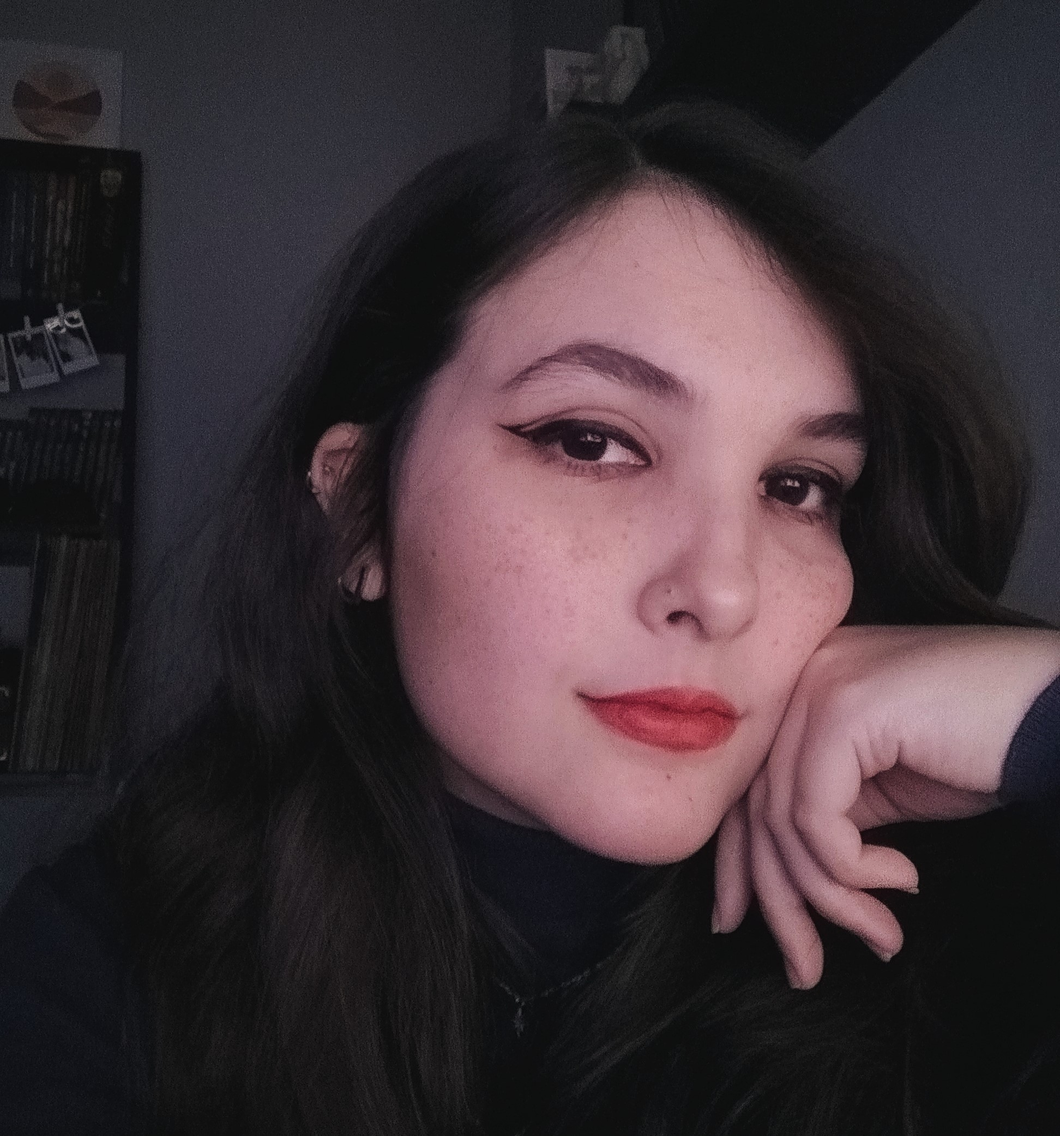
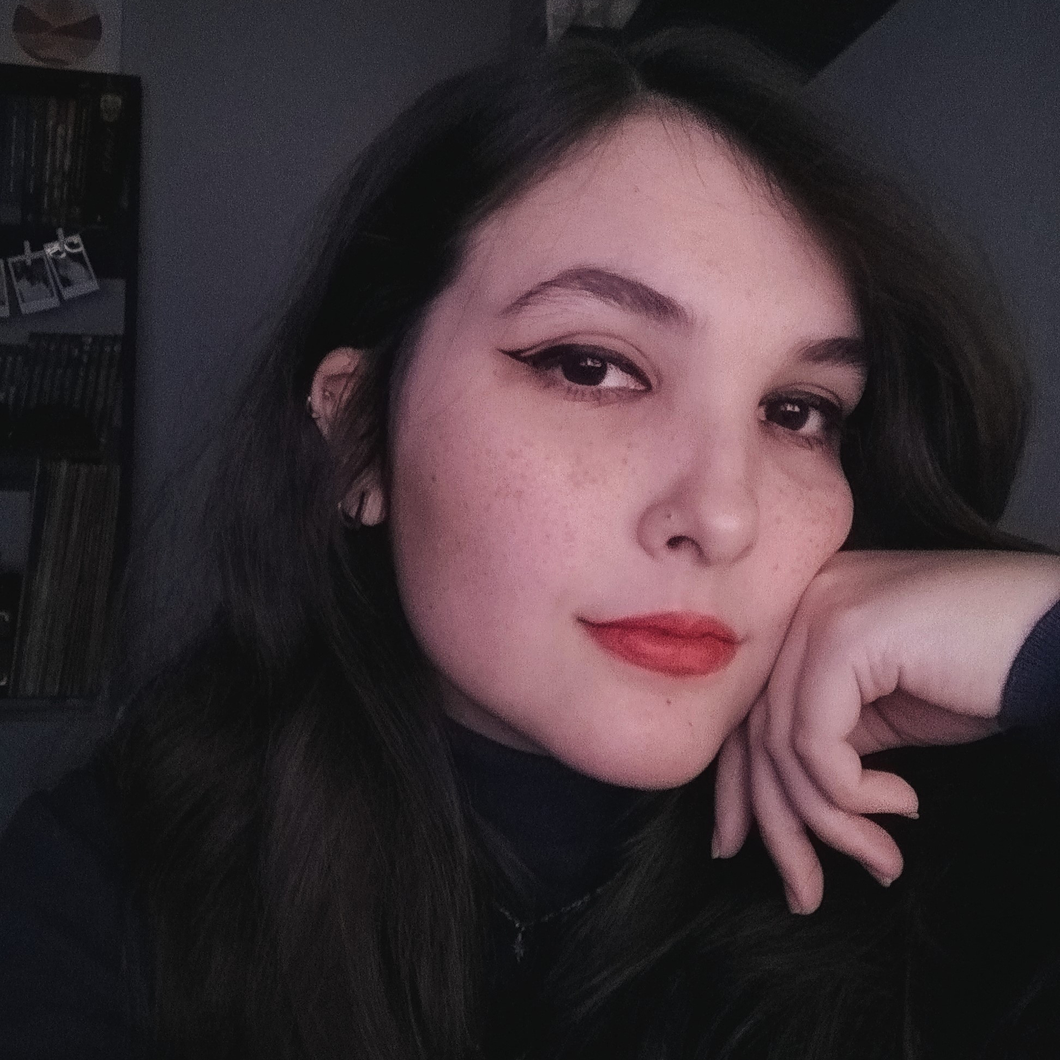
adição das imagens na página sobre nós

diff --git a/sobre-nos.html b/sobre-nos.html
@@ -26,7 +26,7 @@
                 <h1>Sobre nós</h1>
                 <p>Lorem ipsum dolor sit amet consectetur adipisicing elit. Voluptatibus ipsam error labore illo illum eum suscipit quae. Veritatis recusandae vero non cupiditate voluptatem in libero! Laborum qui veritatis magni ipsa. Lorem ipsum dolor sit amet consectetur adipisicing elit. Voluptatibus ipsam error labore illo illum eum suscipit quae. Veritatis recusandae vero non cupiditate voluptatem in libero! Laborum qui veritatis magni ipsa.Lorem ipsum dolor sit amet consectetur adipisicing elit. Voluptatibus ipsam error labore illo illum eum suscipit quae. Veritatis recusandae vero non cupiditate voluptatem in libero! Laborum qui veritatis magni ipsa. Lorem ipsum dolor sit amet consectetur adipisicing elit. Voluptatibus ipsam error labore illo illum eum suscipit quae. Veritatis recusandae vero non cupiditate voluptatem in libero! Laborum qui veritatis magni ipsa.</p>
             <div class="sobre-nos">
-                <div class="integrante"><img src="./imagens/quem-somos/foto1.png" width=150px alt="Imagem da equipe que criou o site.">
+                <div class="integrante"><img src="./imagens/quem-somos/gustavo.jpg" width=150px alt="Imagem da equipe que criou o site.">
                 <div class="integrante-descricao">
                 <h3>Gustavo Lázaro</h3>
                 <p>Lorem ipsum dolor sit amet consectetur adipisicing elit. Ratione dolorem dolorum fuga nam in. Vel voluptatibus necessitatibus incidunt possimus culpa, ullam natus alias soluta iste est, nisi ad doloremque exercitationem.</p>
@@ -38,7 +38,7 @@
                 <p>Lorem ipsum dolor sit amet consectetur adipisicing elit. Ratione dolorem dolorum fuga nam in. Vel voluptatibus necessitatibus incidunt possimus culpa, ullam natus alias soluta iste est, nisi ad doloremque exercitationem.</p>
                 </div></div>
                 <br>
-                <div class="integrante"><img src="./imagens/quem-somos/foto2.png" width=150px alt="Imagem da equipe que criou o site.">
+                <div class="integrante"><img src="./imagens/quem-somos/vitória.jpg" width=150px alt="Imagem da equipe que criou o site.">
                 <div class="integrante-descricao">
                 <h3>Vitória Alves</h3>
                 <p>Lorem ipsum dolor sit amet consectetur adipisicing elit. Ratione dolorem dolorum fuga nam in. Vel voluptatibus necessitatibus incidunt possimus culpa, ullam natus alias soluta iste est, nisi ad doloremque exercitationem.</p>
